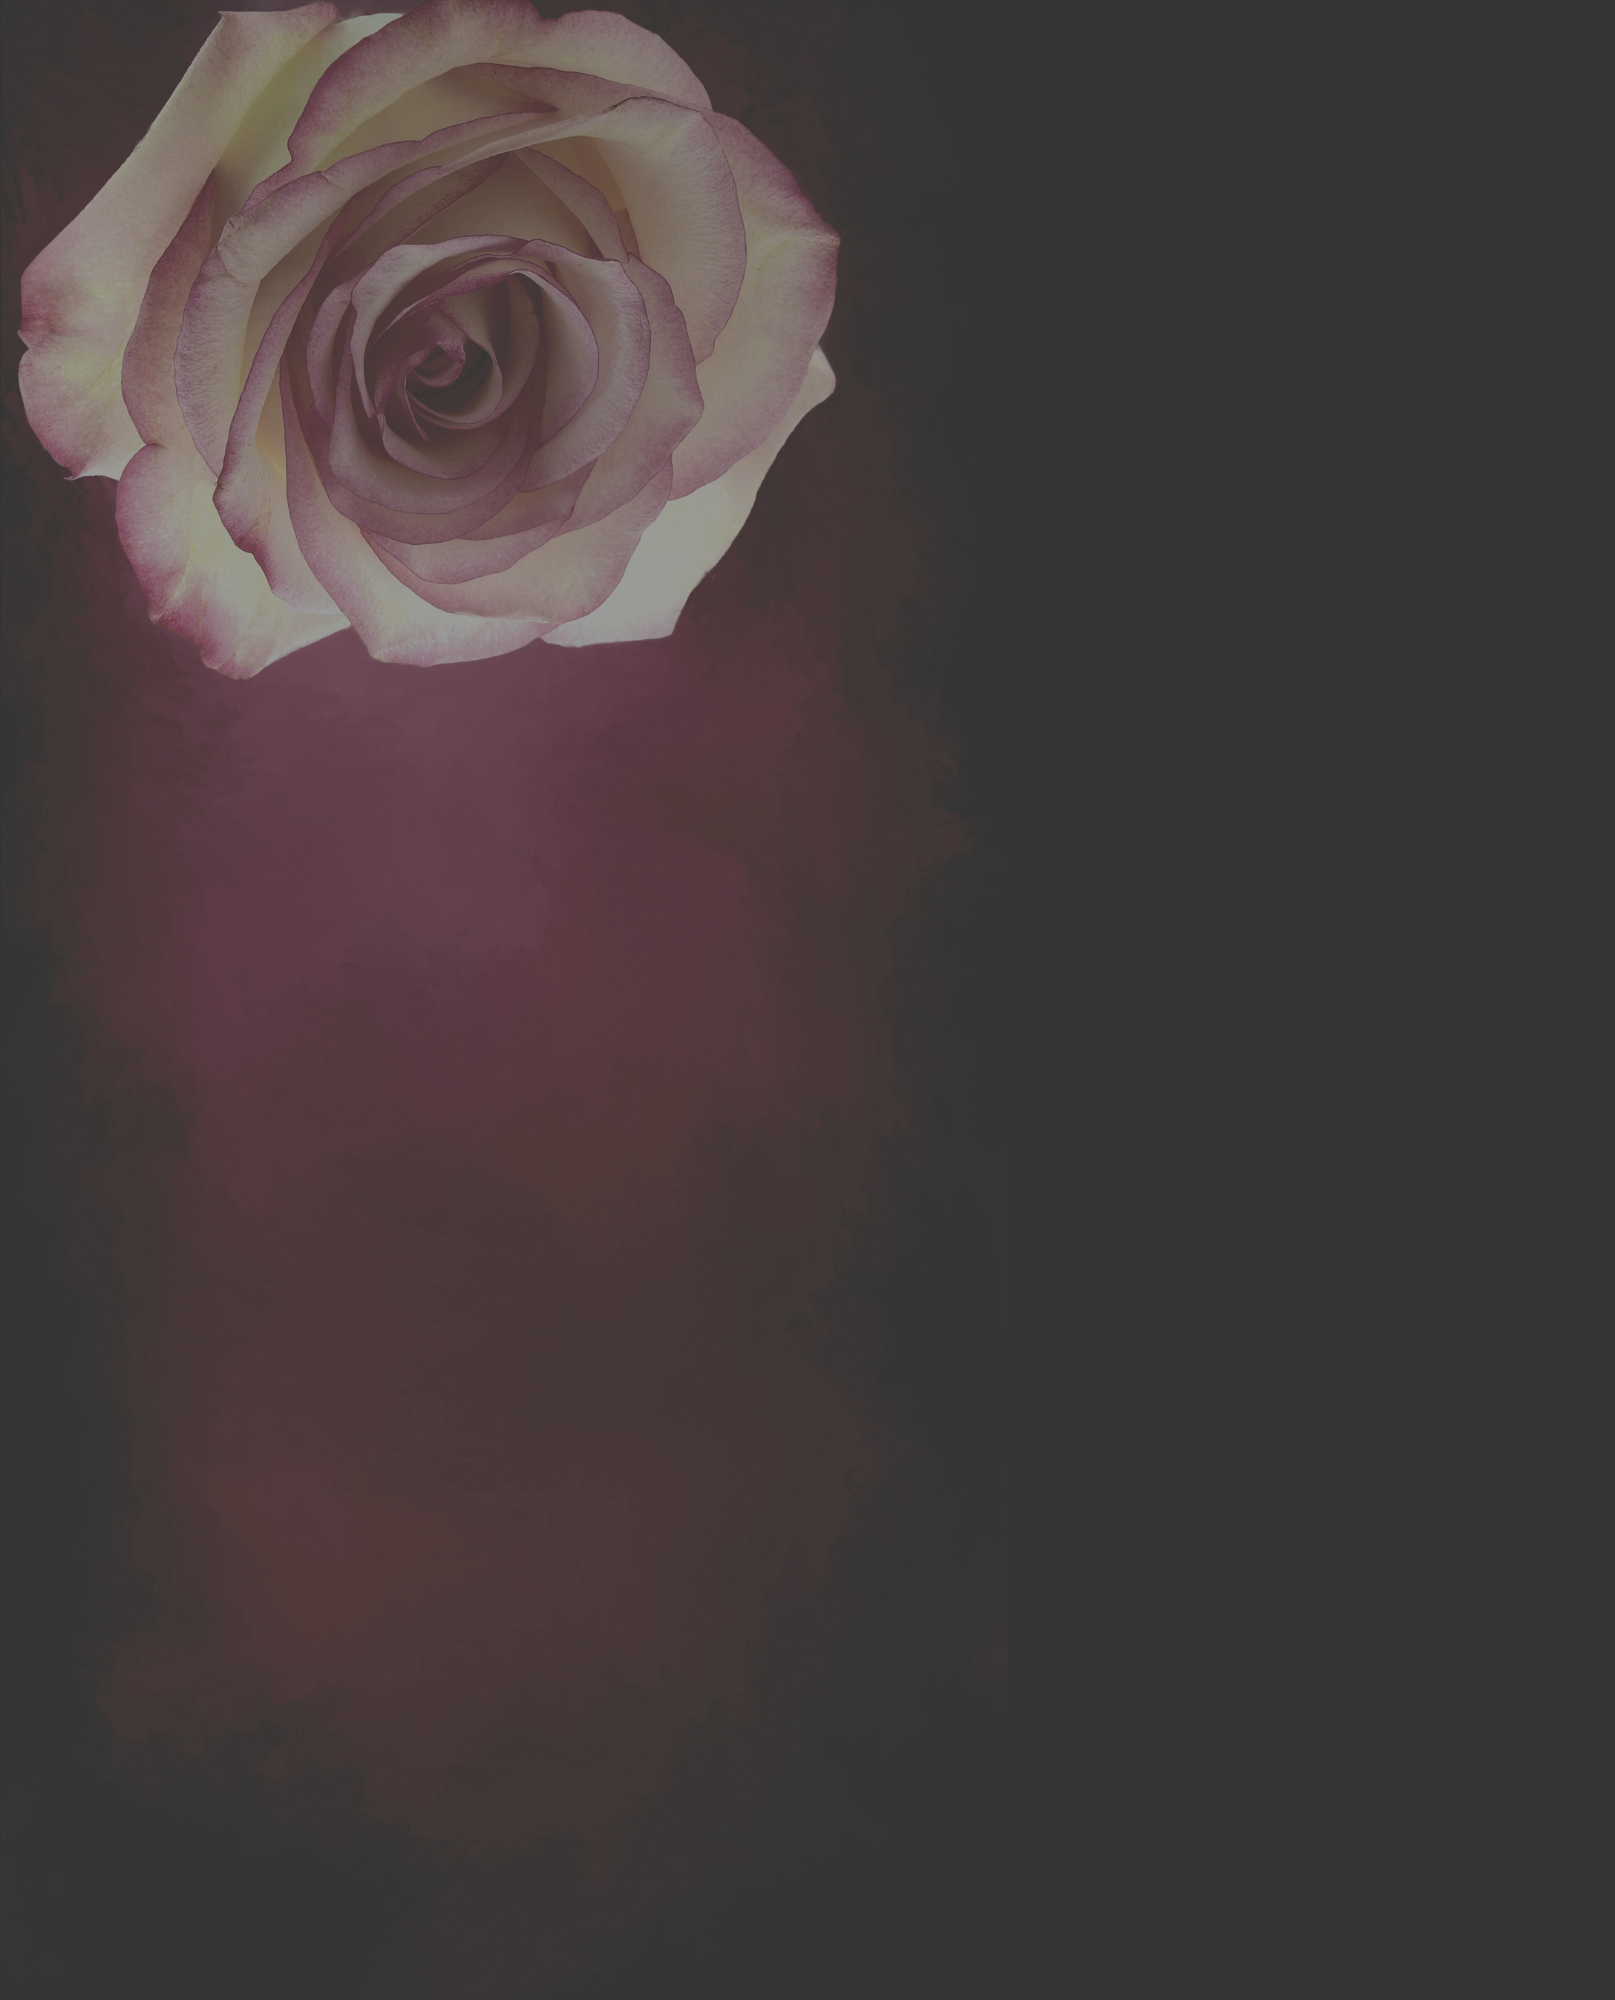
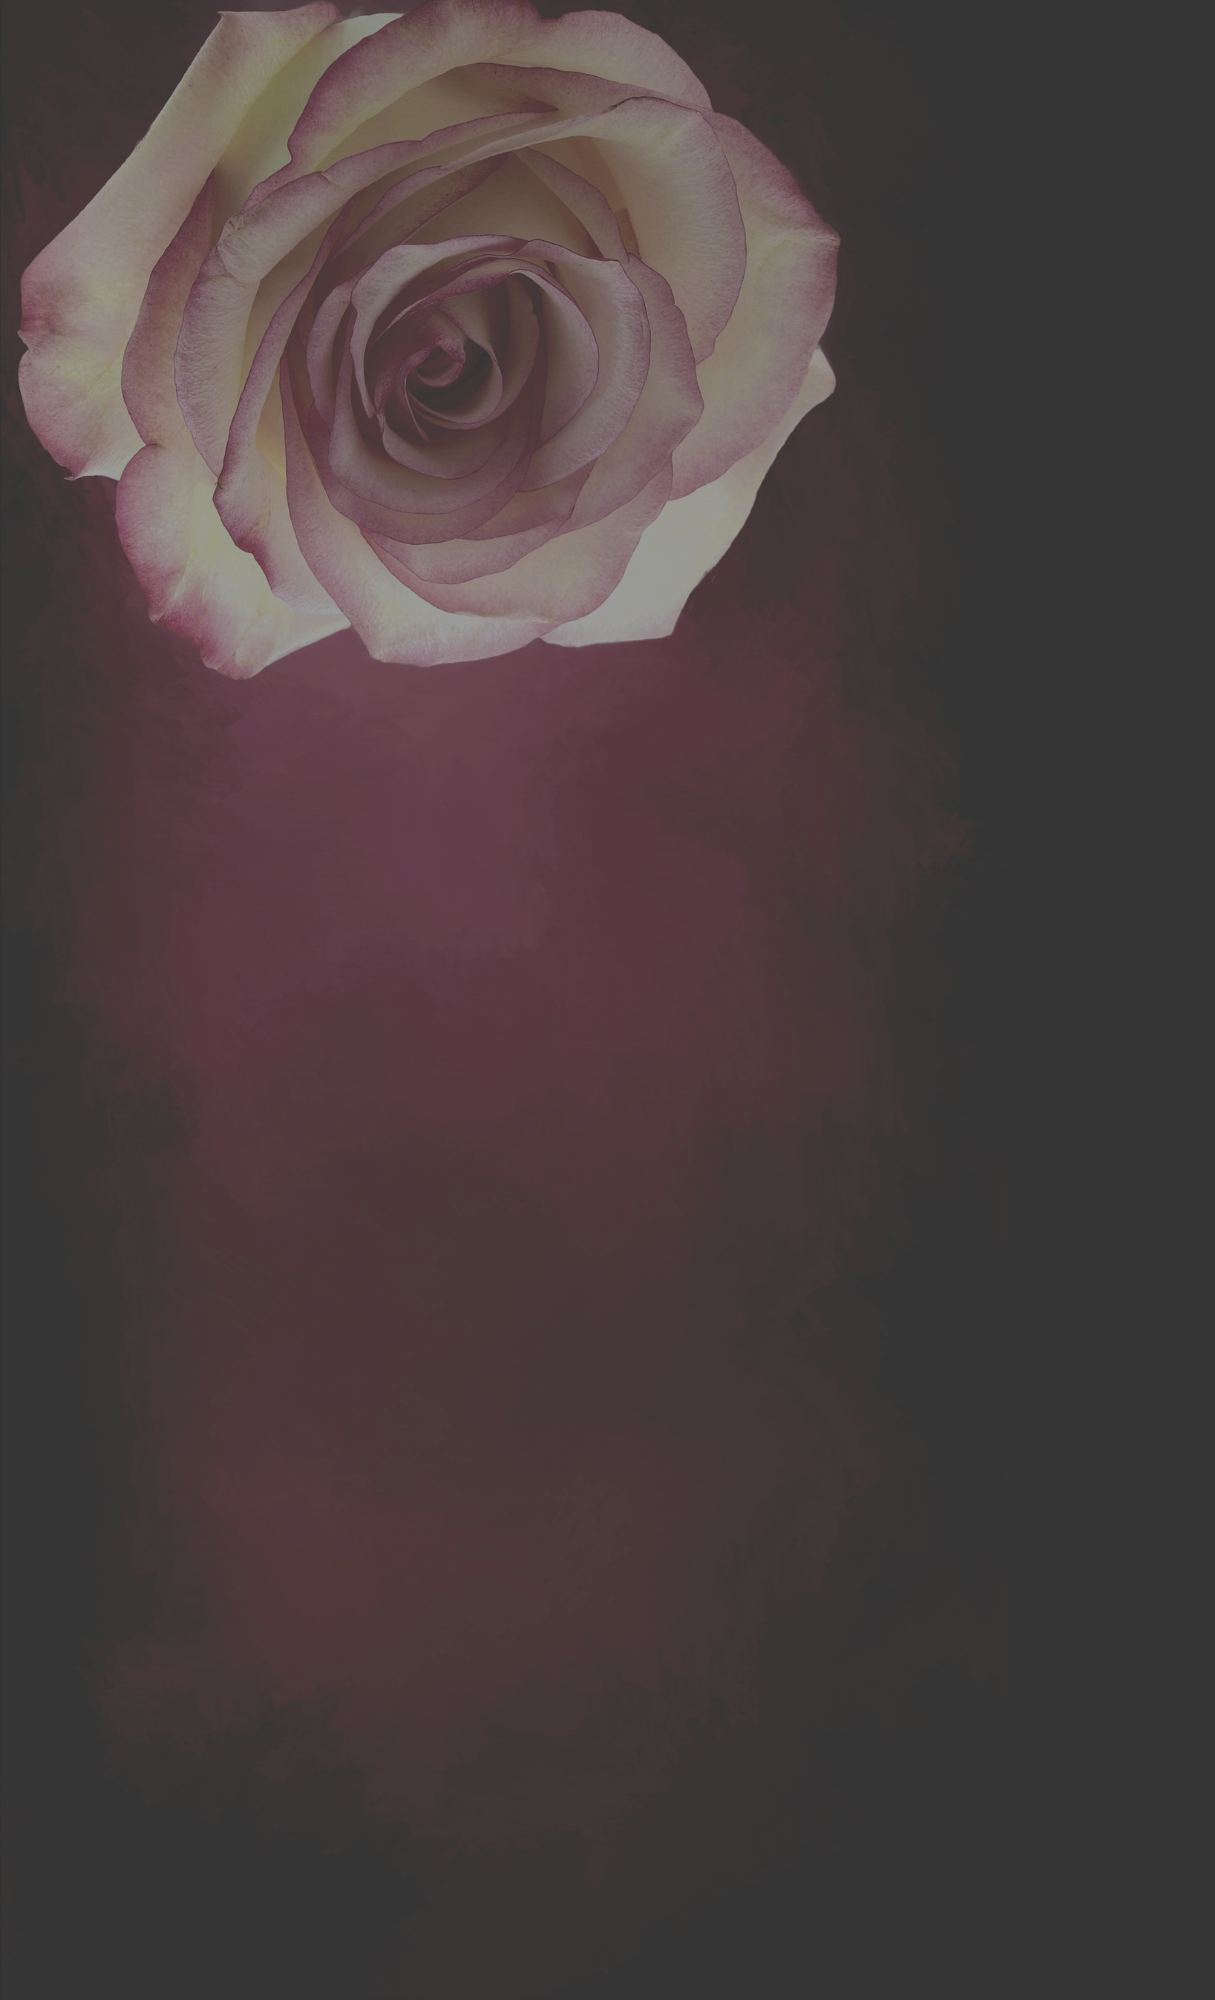
styling moar

Changed region(s): [[0.0, 0.0, 0.7004, 0.558]]

diff --git a/src/components/Projects.js b/src/components/Projects.js
@@ -1,8 +1,6 @@
 import React, { Component } from 'react';
 import '../styles/Projects.css';
-
-import ProjectList from './ProjectList';
-
+import safesrc from '../styles/safesrc.png';
 
 export default class Projects extends Component {
       render() {
@@ -11,8 +9,52 @@ export default class Projects extends Component {
                 <header>
                   <h1 className="proj-title">Projects</h1>
                 </header>
+
                 <section className="projects-container">
-                <ProjectList />
+                  <section className="safesrc">
+                    <img className="safesrc-logo" src={safesrc} alt="safeSRC logo" />
+                    <h1>
+                      <a
+                        className="safesrc-link"
+                        href="https://safesrc.netlify.app/"
+                        target="_blank"
+                        rel="noopener noreferrer"
+                      >
+                        safeSRC
+                      </a>
+                    </h1>
+                    <p>Description</p>
+                  </section>
+
+                  <section className="torr">
+                    <h1>
+                      <a
+                        className="torr-link"
+                        href="https://missaelortiz.github.io/The-Tales-of-Torr-The-Quest-to-Defeat-the-Everlasting-Dragon/"
+                        target="_blank"
+                        rel="noopener noreferrer"
+                      >
+                        Tales of Torr: The Quest to Defeat the Everlasting
+                        Dragon
+                      </a>
+                    </h1>
+                    <p>Description</p>
+                  </section>
+
+                  <section className="triforce">
+                    <h1>
+                      <a
+                        className="triforce-link"
+                        href="https://triforce-trivia.netlify.app/"
+                        target="_blank"
+                        rel="noopener noreferrer"
+                      >
+                        Triforce Trivia
+                      </a>
+                    </h1>
+                    <p>Description</p>
+                  </section>
+
                 </section>
               </div>
             );

diff --git a/src/styles/Projects.css b/src/styles/Projects.css
@@ -1,4 +1,6 @@
 .projects-container {
+    display: flex;
+    flex-direction: column;
     align-items: center;
     align-self: center;
     align-content: center;
@@ -6,6 +8,8 @@
     justify-self: center;
     justify-items: center;
     text-align: center;
+    overflow: auto;
+    margin-top: 10vmin;
 }
 
 header {
@@ -28,4 +32,18 @@ header {
     margin-top: 0;
     font-family: Alice;
     font-variant: small-caps;
+}
+
+.safesrc, .torr, .triforce {
+    display: flex;
+    flex-direction: column;
+    padding: 10px;
+    border: 3px double rgb(15, 29, 1);
+    margin: 5vmin;
+    text-align: center;
+    border-radius: 20px;
+}
+
+.safesrc-logo {
+    height: 20vmin;
 }

diff --git a/src/styles/App.css b/src/styles/App.css
@@ -1,4 +1,4 @@
-@import url('https://fonts.googleapis.com/css2?family=Alice&family=Amatic+SC&family=Cinzel+Decorative:wght@400;700&family=Cormorant+Garamond:ital,wght@0,300;0,400;0,600;1,300&display=swap');
+@import url('https://fonts.googleapis.com/css2?family=Alice&family=Amatic+SC&family=Cinzel+Decorative:wght@400;700&family=Cormorant+Garamond:ital,wght@0,300;0,400;0,550;1,300&display=swap');
 
 html,
 body {
@@ -8,7 +8,7 @@ body {
     background-size: 100%;
     height: 100%;
     width: 100%;
-    background-color: rgb(69, 69, 69);
+    background-color: rgb(52, 52, 52);
     overflow: hidden;
 }
 

diff --git a/src/styles/Home.css b/src/styles/Home.css
@@ -13,5 +13,6 @@ h1 {
   font-variant: small-caps;
   font-size: 6vmin;
   margin: 20vmin;
+  margin-top: 30vmin;
   text-align: center;
 }
